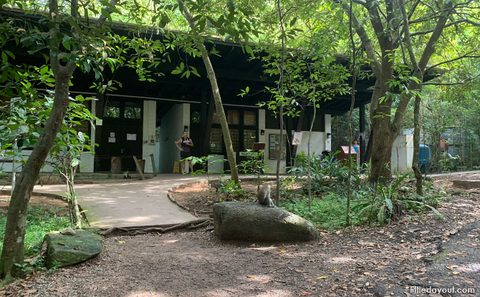
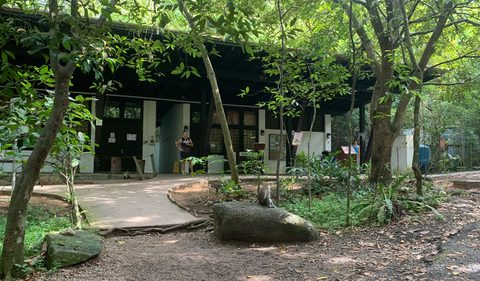
Crop the watermark off the ranger station photo
The supplied checkpoint 1 image carried a "littledayout.com" mark in its
bottom-right corner. Taking 23 px off the bottom of the original clears it with
a margin; that strip was foreground leaf litter, so the shelter and the macaque
on the rock are untouched. Rebuilt at 480 px from the original rather than
re-encoding the published copy.

Cache version bumped so installed copies pick the new file up.

Claude-Session: https://claude.ai/code/session_01XMVBw7CvxoQuLT6rZiXCu1

diff --git a/UMS Walk & Hike 2026/sw.js b/UMS Walk & Hike 2026/sw.js
@@ -5,7 +5,7 @@
 //   map tiles               cached as they are viewed, capped, stale-while-revalidate
 //   NEA weather             network-only (the app keeps its own short-lived copy)
 
-const VERSION = 'v16';
+const VERSION = 'v17';
 const SHELL_CACHE = `ums-shell-${VERSION}`;
 const TILE_CACHE = `ums-tiles-${VERSION}`;
 const MAX_TILES = 1200;
